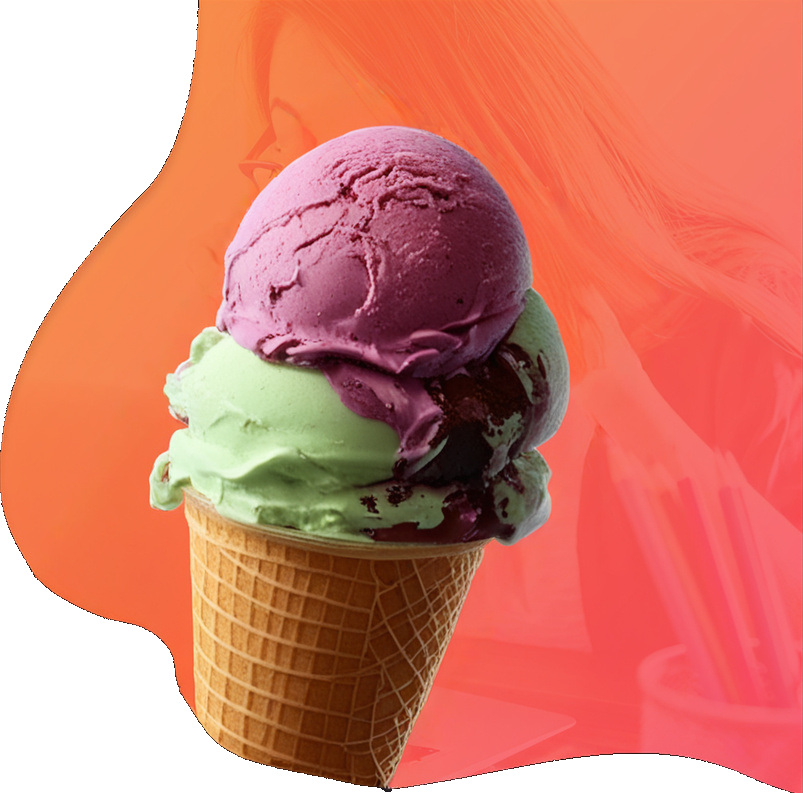
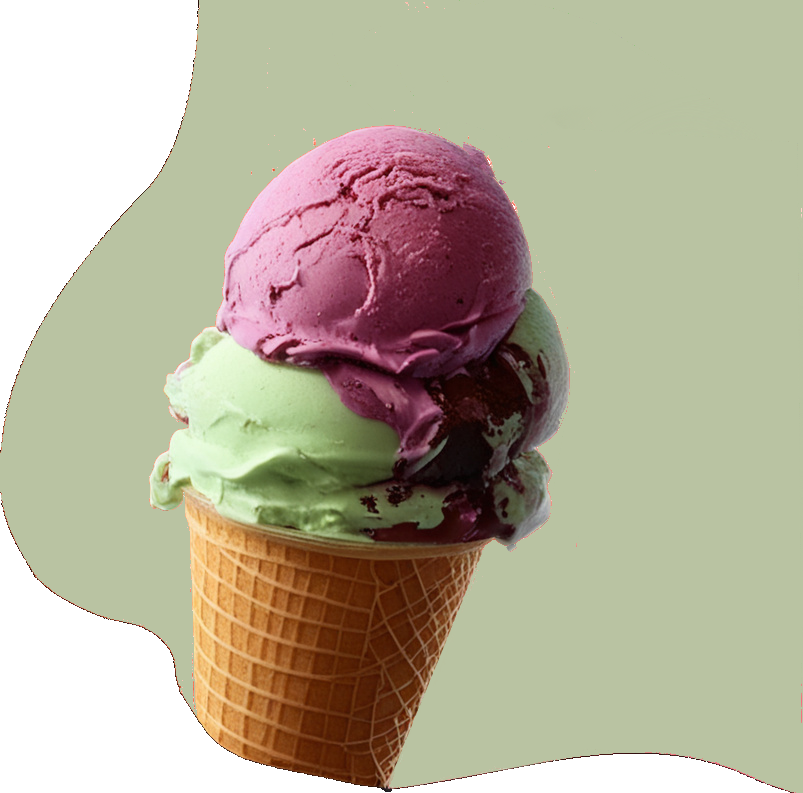
Add files via upload

diff --git a/index.html b/index.html
@@ -43,7 +43,7 @@
                     <nav class="main-nav">
                         <!-- ***** Logo Start ***** -->
                         <a href="index.html" class="logo">
-                            Ulìa
+                            <img src="assets/images/logo.svg" alt="">
                         </a>
                         <!-- ***** Logo End ***** -->
                         <!-- ***** Menu Start ***** -->
@@ -75,9 +75,9 @@
                 <div class="row">
                     <div class="left-text col-lg-6 col-md-12 col-sm-12 col-xs-12"
                         data-scroll-reveal="enter left move 30px over 0.6s after 0.4s">
-                        <h1><em>Ulìa</em></h1>
+                        <h1>Ulìa</h1>
                         <h2>Il primo gelato che racconta il Salento</h2>
-                        <p>Per chi sogna di perdersi nei profumi, nei colori e nelle tradizioni del Salento, Ulìa è la gelateria che trasforma ogni cucchiaio di gelato in un viaggio autentico alla scoperta di questa terra magica. Non è il solito gelato artigianale: è un’esperienza che ti connette con le radici, che ti racconta una storia, e che ti fa sentire il cuore pulsare come il ritmo della pizzica sotto il cielo stellato del Sud. Grazie a ingredienti locali scelti con cura, ricette che custodiscono l’anima del territorio e un’atmosfera che ti accoglie come un abbraccio salentino.</p> 
+                        <p>Per chi sogna di perdersi nei profumi, nei colori e nelle tradizioni del Salento.<br><br>Ulìa è la gelateria che trasforma ogni cucchiaio di gelato in un viaggio autentico alla scoperta di questa terra magica.<br><br>Non il solito gelato artigianale. È un’esperienza che ti connette con le radici, che ti racconta una storia, e che ti fa sentire il cuore pulsare come il ritmo della pizzica sotto il cielo stellato del Sud. Grazie a ingredienti locali scelti con cura, ricette che custodiscono l’anima del territorio e un’atmosfera che ti accoglie come un abbraccio salentino.</p> 
                         <a href="#about" class="main-button-slider">Scopri Ulìa</a>
                     </div>
                 </div>
@@ -103,14 +103,11 @@
                     <div class="features-item">
                         <div class="features-icon">
                             <h2>01</h2>
-                            <img src="assets/images/features-icon-1.png" alt="">
+                            <img src="assets/images/authenticity.png" alt="">
                             <h4>Autenticità</h4>
                             <p>Celebriamo il Salento attraverso gusti che raccontano storie, utilizzando ingredienti autentici e lavorazioni artigianali. Ogni cucchiaio parla della nostra terra.
                                 Ogni gusto è una lettera d’amore al Salento. Racconta storie di campi assolati, mani sapienti che raccolgono frutti maturi, e tradizioni tramandate con orgoglio.
                                 </p>
-                            <a href="#testimonials" class="main-button">
-                                Scopri di più
-                            </a>
                         </div>
                     </div>
                 </div>
@@ -119,14 +116,11 @@
                     <div class="features-item">
                         <div class="features-icon">
                             <h2>02</h2>
-                            <img src="assets/images/features-icon-2.png" alt="">
+                            <img src="assets/images/sprout.png" alt="">
                             <h4>Sostenibilità Locale e connessioni</h4>
                             <p>Sosteniamo i piccoli produttori del Salento, utilizzando materie prime a chilometro zero e stagionali, per valorizzare il territorio e ridurre l’impatto ambientale.
                                 A Ulìa non vendiamo solo gelato, ma momenti che scaldano il cuore. È quel sorriso del primo assaggio, quel ricordo d’estate che si risveglia, quella sensazione di essere a casa, ovunque tu sia.
                                 </p>
-                            <a href="#testimonials" class="main-button">
-                                Scopri di più
-                            </a>
                         </div>
                     </div>
                 </div>
@@ -135,12 +129,9 @@
                     <div class="features-item">
                         <div class="features-icon">
                             <h2>03</h2>
-                            <img src="assets/images/features-icon-3.png" alt="">
+                            <img src="assets/images/organic.png" alt="">
                             <h4>Eccellenza Genuina</h4>
                             <p>Nulla è lasciato al caso. Ogni ingrediente è scelto per emozionare, ogni ricetta è pensata per celebrare la bellezza di ciò che è semplice, ma straordinario.</p>
-                            <a href="#testimonials" class="main-button">
-                                Scopri di più
-                            </a>
                         </div>
                     </div>
                 </div>
@@ -155,7 +146,7 @@
                 <div class="col-lg-8 offset-lg-2">
                     <div class="center-heading">
                         <h2>Cosa facciamo</h2>
-                        <p>Aiutiamo turisti in cerca di autenticità e residenti desiderosi di una pausa di piacere e alla ricerca di un momento di leggerezza a vivere un’esperienza autentica indimenticabile e deliziosa, capace di trasformare un semplice gelato in un viaggio tra i sapori e le emozioni del Salento. Attraverso gelati artigianali unici, raccontiamo storie di tradizione e gusto, offrendo loro un’oasi di spensieratezza e calore in un contesto accogliente e genuino.</p>
+                        <p>Aiutiamo a vivere un’esperienza autentica indimenticabile e deliziosa, capace di trasformare un semplice gelato in un viaggio tra i sapori e le emozioni del Salento. Attraverso gelati artigianali unici, raccontiamo storie di tradizione e gusto, offrendo loro un’oasi di spensieratezza e calore in un contesto accogliente e genuino.</p>
                     </div>
                 </div>
             </div>
@@ -178,21 +169,21 @@
                 <div class="right-text offset-lg-1 col-lg-6 col-md-12 col-sm-12 mobile-bottom-fix">
                     <ul>
                         <li data-scroll-reveal="enter right move 30px over 0.6s after 0.4s">
-                            <img src="assets/images/about-icon-01.png" alt="">
+                            <img src="assets/images/about-icon.png" alt="">
                             <div class="text">
                                 <h4>Sorridere senza pensieri</h4>
                                 <p>Il gelato diventa una dolce evasione dalla frenesia quotidiana</p>
                             </div>
                         </li>
                         <li data-scroll-reveal="enter right move 30px over 0.6s after 0.5s">
-                            <img src="assets/images/about-icon-02.png" alt="">
+                            <img src="assets/images/about-icon.png" alt="">
                             <div class="text">
                                 <h4>Celebrarsi</h4>
                                 <p>Un piccolo lusso quotidiano che parla di auto-cura, piacere e attenzione ai dettagli.</p>
                             </div>
                         </li>
                         <li data-scroll-reveal="enter right move 30px over 0.6s after 0.6s">
-                            <img src="assets/images/about-icon-03.png" alt="">
+                            <img src="assets/images/about-icon.png" alt="">
                             <div class="text">
                                 <h4>Un gelato artigianale dal gusto inconfondibile</h4>
                                 <p>Ogni ricetta è creata con ingredienti genuini, ispirati al Salento, e preparata con tecniche che esaltano la qualità
@@ -200,7 +191,7 @@
                             </div>
                         </li>
                         <li data-scroll-reveal="enter right move 30px over 0.6s after 0.6s">
-                            <img src="assets/images/about-icon-03.png" alt="">
+                            <img src="assets/images/about-icon.png" alt="">
                             <div class="text">
                                 <h4>Felice e spensierato</h4>
                                 <p>Il gelato diventa un momento per staccare dalla routine accolti con calore, come in famiglia, in un luogo che racconta storie vere attraverso sapori autentici.
@@ -208,7 +199,7 @@
                             </div>
                         </li>
                         <li data-scroll-reveal="enter right move 30px over 0.6s after 0.6s">
-                            <img src="assets/images/about-icon-03.png" alt="">
+                            <img src="assets/images/about-icon.png" alt="">
                             <div class="text">
                                 <h4>Essere percepito come un intenditore di cose autentiche</h4>
                                 <p>Scegliere Ulìa comunica agli altri il gusto per la qualità e il valore della tradizione
@@ -216,7 +207,7 @@
                             </div>
                         </li>
                         <li data-scroll-reveal="enter right move 30px over 0.6s after 0.6s">
-                            <img src="assets/images/about-icon-03.png" alt="">
+                            <img src="assets/images/about-icon.png" alt="">
                             <div class="text">
                                 <h4>Esprimere il proprio amore per il Salento</h4>
                                 <p>Per un turista, è un souvenir emozionale da vivere e raccontare; per un residente, un modo per celebrare la propria terra.
@@ -224,7 +215,7 @@
                             </div>
                         </li>
                         <li data-scroll-reveal="enter right move 30px over 0.6s after 0.6s">
-                            <img src="assets/images/about-icon-03.png" alt="">
+                            <img src="assets/images/about-icon.png" alt="">
                             <div class="text">
                                 <h4>Sostenere la qualità e l’artigianalità</h4>
                                 <p>Comunica un valore personale e sociale di apprezzamento per i prodotti genuini
@@ -232,7 +223,7 @@
                             </div>
                         </li>
                         <li data-scroll-reveal="enter right move 30px over 0.6s after 0.6s">
-                            <img src="assets/images/about-icon-03.png" alt="">
+                            <img src="assets/images/about-icon.png" alt="">
                             <div class="text">
                                 <h4>Ambiente che invita a fermarsi e godere</h4>
                                 <p>Non solo una gelateria, ma un luogo accogliente dove fermarsi, rilassarsi e sentirsi bene

diff --git a/assets/css/templatemo-lava.css b/assets/css/templatemo-lava.css
@@ -113,17 +113,17 @@ global styles
 */
 html,
 body {
-  background: #fff;
+  background: #FFF9F0;
   font-family: 'Poppins', sans-serif;
 }
 
 ::selection {
-  background: #f1556a;
+  background: #B9C3A2;
   color: #fff;
 }
 
 ::-moz-selection {
-  background: #f1556a;
+  background: #B9C3A2;
   color: #fff;
 }
 
@@ -147,7 +147,7 @@ a.main-button-slider {
   font-size: 14px;
   border-radius: 25px;
   padding: 15px 25px;
-  background-color: #fba70b;
+  background-color: #C3D1B3;
   text-transform: uppercase;
   color: #fff;
   font-weight: 600;
@@ -159,7 +159,7 @@ a.main-button-slider {
 }
 
 a.main-button-slider:hover {
-  background-color: #f1556a;
+  background-color: #B9C3A2;
 }
 
 a.main-button {
@@ -219,7 +219,7 @@ button.main-button:hover {
 
 .center-heading h2 em {
   font-style: normal;
-  color: #f4813f;
+  color: #FFC857;
 }
 
 .center-heading p {
@@ -251,11 +251,11 @@ header
 }
 
 .background-header .main-nav .nav li:hover a {
-  color: #fba70b!important;
+  color: #B9C3A2!important;
 }
 
 .background-header .nav li a.active {
-  color: #fba70b!important;
+  color: #B9C3A2!important;
 }
 
 .header-area {
@@ -274,20 +274,20 @@ header
 .header-area .main-nav {
   min-height: 80px;
   background: transparent;
+  display: flex;
+  align-items: baseline;
 }
 
 .header-area .main-nav .logo {
-  line-height: 80px;
-  color: #191a20;
-  font-size: 28px;
-  font-weight: 700;
-  text-transform: uppercase;
-  letter-spacing: 2px;
   float: left;
   -webkit-transition: all 0.3s ease 0s;
   -moz-transition: all 0.3s ease 0s;
   -o-transition: all 0.3s ease 0s;
   transition: all 0.3s ease 0s;
+}
+
+.header-area .main-nav .logo img {
+  width: 150px;
 }
 
 
@@ -332,7 +332,7 @@ header
 }
 
 .header-area .main-nav .nav li:hover a {
-  color: #fba70b;
+  color: #B9C3A2;
 }
 
 .header-area .main-nav .nav li.submenu {
@@ -397,12 +397,12 @@ header
   -moz-transition: all 0.3s ease 0s;
   -o-transition: all 0.3s ease 0s;
   transition: all 0.3s ease 0s;
-  background: #fba70b;
+  background: #B9C3A2;
 }
 
 .header-area .main-nav .nav li.submenu ul li a:hover {
   background: #fff;
-  color: #fba70b!important;
+  color: #B9C3A2!important;
   padding-left: 25px;
 }
 
@@ -538,7 +538,7 @@ header
 }
 
 .header-area.header-sticky .nav li a.active {
-  color: #fba70b;
+  color: #B9C3A2;
 }
 
 @media (max-width: 1200px) {
@@ -548,6 +548,13 @@ header
   }
   .header-area .main-nav:before {
     display: none;
+  }
+}
+
+@media (max-width: 991px) {
+  .header-area .main-nav .logo img {
+    width: 150px;
+    margin-top: -15px;
   }
 }
 
@@ -606,7 +613,7 @@ header
   }
   .header-area .main-nav .nav li a:hover {
     background: #eee !important;
-    color: #fba70b!important;
+    color: #B9C3A2!important;
   }
   .header-area .main-nav .nav li.submenu ul {
     position: relative;
@@ -674,13 +681,14 @@ welcome
   font-size: 52px;
   line-height: 80px;
   letter-spacing: 1px;
-  color: #191a20;
+  color: #25402a;
 }
 
 .welcome-area .header-text h2 {
   font-size: 20px;
   letter-spacing: 1px;
   margin-bottom: 40px;
+  color: #25402a;
 }
 
 .welcome-area .header-text h1 em {
@@ -691,7 +699,7 @@ welcome
 .welcome-area .header-text p {
   font-weight: 300;
   font-size: 17px;
-  color: #7a7a7a;
+  color: #25402a;
   line-height: 30px;
   letter-spacing: 0.25px;
   margin-bottom: 40px;
@@ -787,6 +795,7 @@ about
   z-index: 10;
   position: relative;
   max-width: 100%;
+  height: 150px;
   margin-bottom: 40px;
 }
 
@@ -842,11 +851,10 @@ promotion
 }
 
 #promotion .right-text img {
-  width: 30px;
   height: 30px;
   display: inline-block;
   float: left;
-  margin-right: 30px;
+  margin-right: 10px;
 }
 
 #promotion .right-text h4 {
@@ -884,8 +892,8 @@ testimonials
 }
 
 #testimonials .item .testimonial-content {
-  background: rgb(244,129,63);
-  background: linear-gradient(145deg, rgba(244,129,63,1) 0%, rgba(241,85,106,1) 100%);
+  background: rgb(185,195,162);
+  background: linear-gradient(90deg, rgba(185,195,162,1) 0%, rgba(74,117,141,1) 39%, rgba(45,95,123,1) 100%);
   margin-left: 60px;
   padding: 40px 30px;
   text-align: center;
@@ -938,8 +946,8 @@ testimonials
   line-height: 80px;
   text-align: center;
   display: inline-block;
-  background: rgb(244,129,63);
-  background: linear-gradient(145deg, rgba(244,129,63,1) 0%, rgba(241,85,106,1) 100%);
+  background: rgb(185,195,162);
+  background: linear-gradient(90deg, rgba(185,195,162,1) 0%, rgba(74,117,141,1) 39%, rgba(45,95,123,1) 100%);
   position: absolute;
 }
 
@@ -955,8 +963,8 @@ testimonials
   line-height: 80px;
   text-align: center;
   display: inline-block;
-  background: rgb(244,129,63);
-  background: linear-gradient(145deg, rgba(244,129,63,1) 0%, rgba(241,85,106,1) 100%);
+  background: rgb(185,195,162);
+  background: linear-gradient(90deg, rgba(185,195,162,1) 0%, rgba(74,117,141,1) 39%, rgba(45,95,123,1) 100%);
   position: absolute;
 }
 
@@ -1169,7 +1177,7 @@ preloader
 */
 #preloader {
   overflow: hidden;
-  background-image: linear-gradient(145deg, #f4813f 0%, #f1556a 100%);
+  background-image: linear-gradient(145deg, rgba(185,195,162,1) 0%, rgba(74,117,141,1) 45%, rgba(45,95,123,1) 100%);
   left: 0;
   right: 0;
   top: 0;
